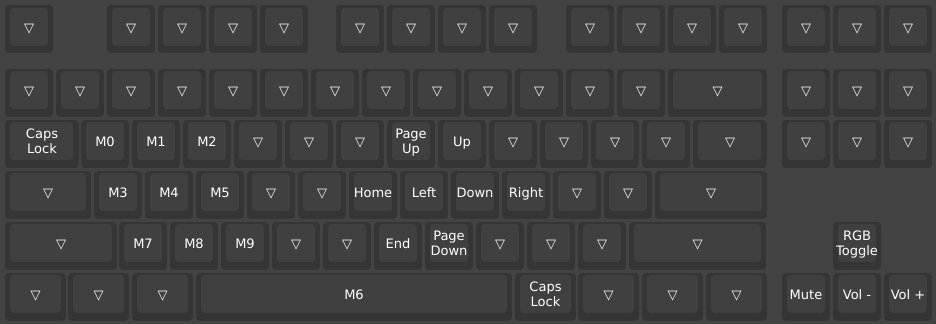
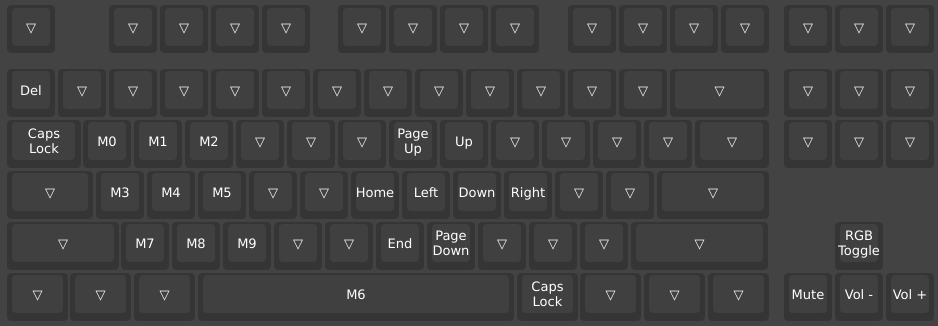
Hippo

diff --git a/README.md b/README.md
@@ -14,7 +14,7 @@ Log of some of my keyboard builds and backups of their QMK/VIA keyboard layouts.
 | -------- | -------------- | ------------- |
 | Case     | Hippo TKL      | Polycarbonate |
 | Switches | Gateron Type R | Stock         |
-| Keycaps  | GMK Beta JS    | GMK Jamon R2  |
+| Keycaps  | GMK Jamon R2   |               |
 | Artisans | -              | -             |
 
 ![alt text](images/hippo.jpg)